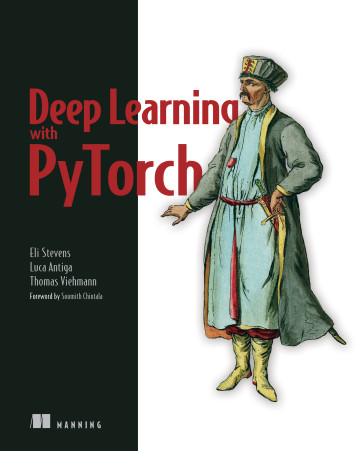
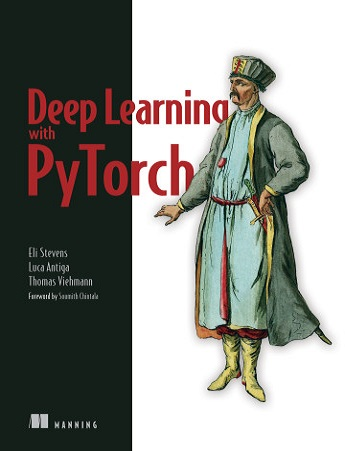
materials

diff --git a/materials.md b/materials.md
@@ -4,9 +4,9 @@ title: Materials
 permalink: /materials/
 ---
 
-{% include image.html href="https://mitpress.mit.edu/books/deep-learning" url="/_images/books/deep_learning.jpg" width=175 align="right" %}
-{% include image.html href="https://www.springer.com/gp/book/9783319944623" url="/_images/books/neural_networks.jpg" width=175 align="right" %}
-{% include image.html href="https://www.manning.com/books/deep-learning-with-pytorch" url="/_images/books/pytorch.jpg" width=175 align="right" %}
+{% include image.html href="https://mitpress.mit.edu/books/deep-learning" url="/_images/books/deep_learning.jpg" width=150 align="right" %}
+{% include image.html href="https://www.springer.com/gp/book/9783319944623" url="/_images/books/neural_networks.jpg" width=150 align="right" %}
+{% include image.html href="https://www.manning.com/books/deep-learning-with-pytorch" url="/_images/books/pytorch.jpg" width=150 align="right" %}
 
 
 ## Book
